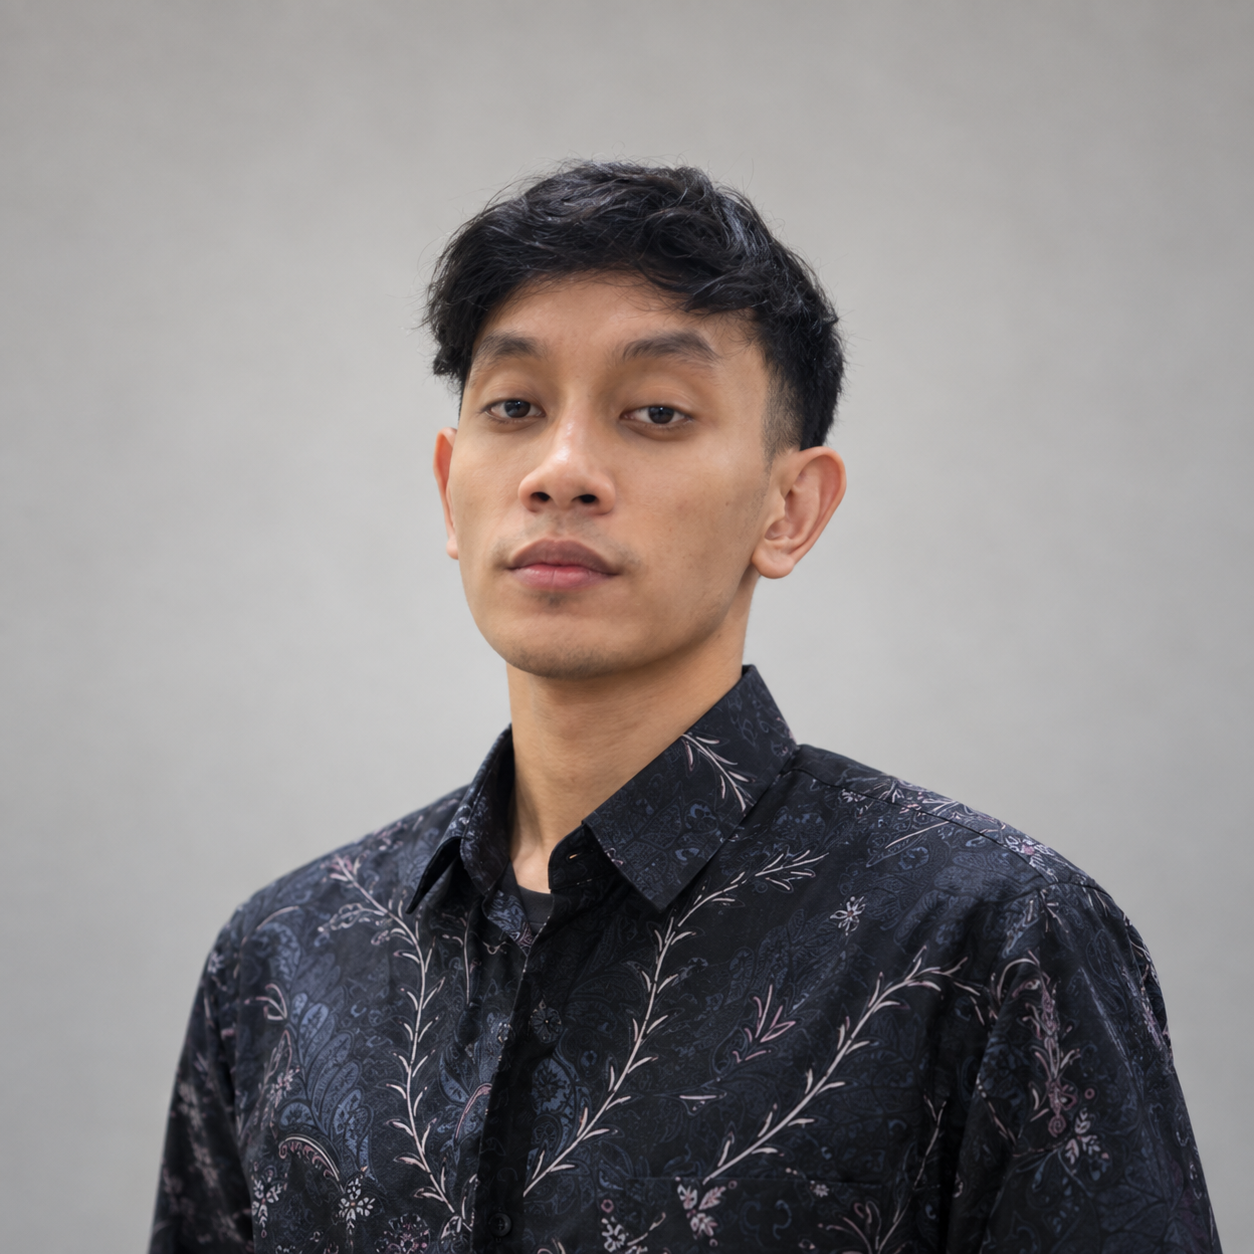
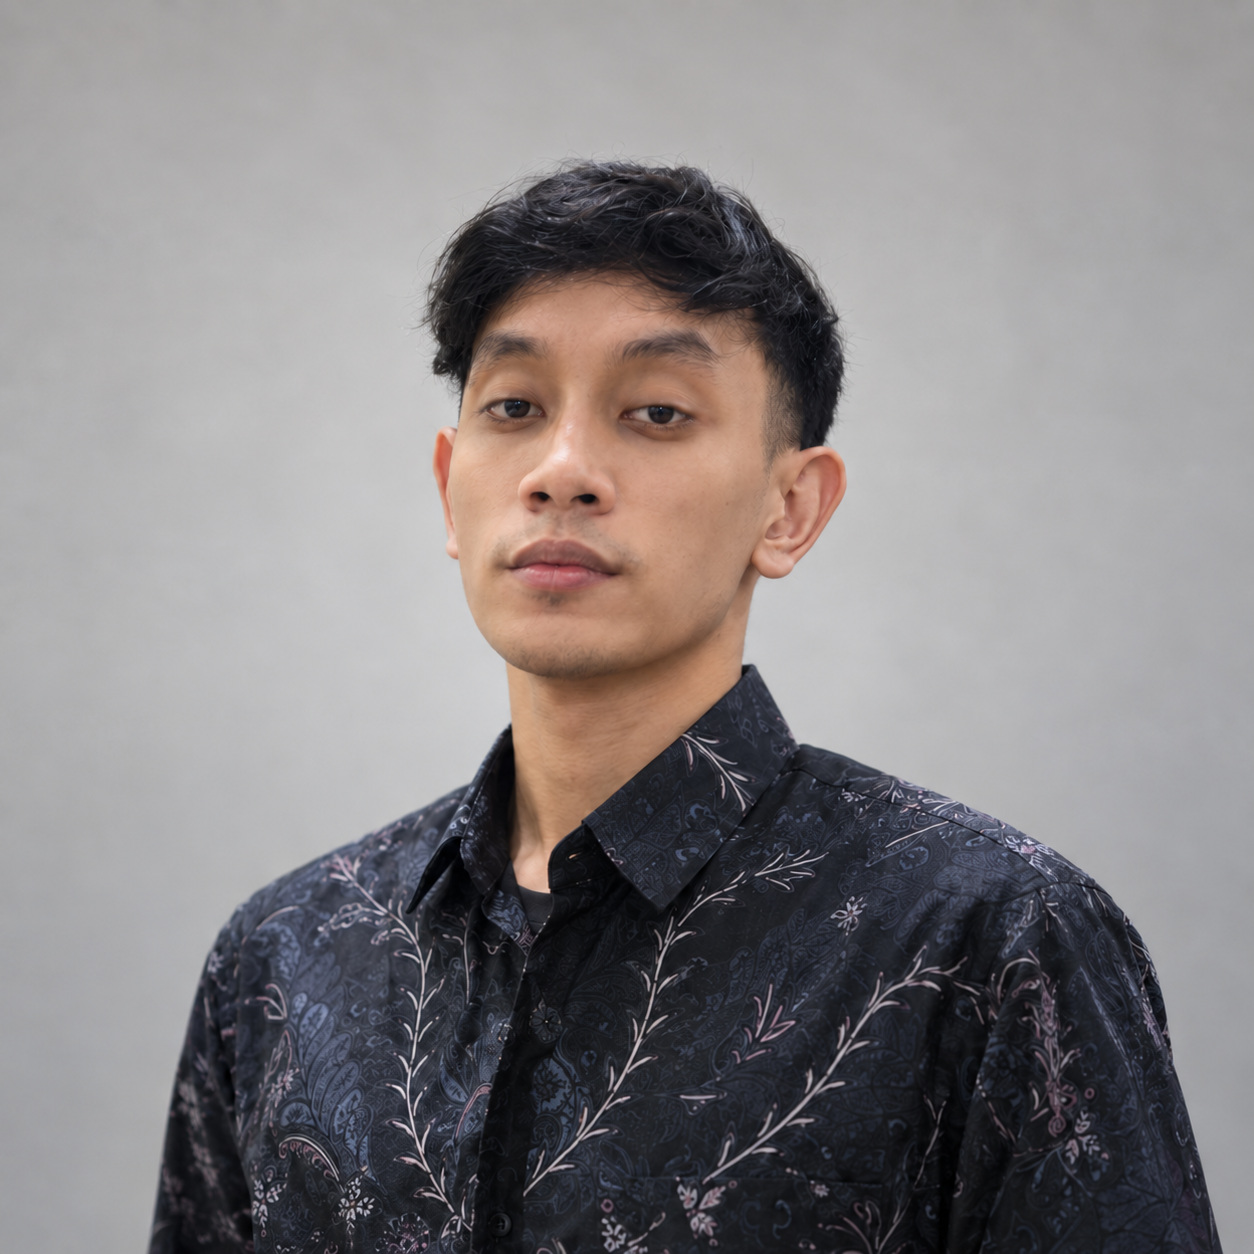
Add files via upload

diff --git a/index.html b/index.html
@@ -27,7 +27,7 @@
     <div class="hero-top"><p class="eyebrow">Data, with perspective.</p><span class="draft-label">Portfolio in progress</span></div>
     <div class="hero-layout">
       <div class="hero-copy"><p class="intro">Hello, I'm <strong>Fahmi Akbari</strong> — Data Analyst.</p><h1 id="hero-title">A closer look.<br>A <em>clearer</em> answer.</h1><p class="hero-description">Making sense of data, one good question at a time. A collection of projects, methods, and the thinking behind the work.</p><a class="button primary" href="#projects">Explore the work <span aria-hidden="true">↘</span></a></div>
-      <aside class="hero-aside" aria-label="Profile photo"><div class="portrait-slot"><img src="fahmi-akbari.png" alt="Portrait of Fahmi Akbari" width="1254" height="1254" fetchpriority="high"></div><span class="aside-note">[City, Country]</span></aside>
+      <aside class="hero-aside" aria-label="Profile photo"><div class="portrait-slot"><img src="fahmi-akbari.png?v=20261002" alt="Portrait of Fahmi Akbari" width="1254" height="1254" fetchpriority="high"></div><span class="aside-note">[City, Country]</span></aside>
     </div>
     <div class="hero-bottom"><span>Questions → Evidence → Decisions</span><a href="#projects">Selected work below <span aria-hidden="true">↓</span></a></div>
   </section>
@@ -85,6 +85,7 @@
 </main>
 </body>
 </html>
+
 
 
 
